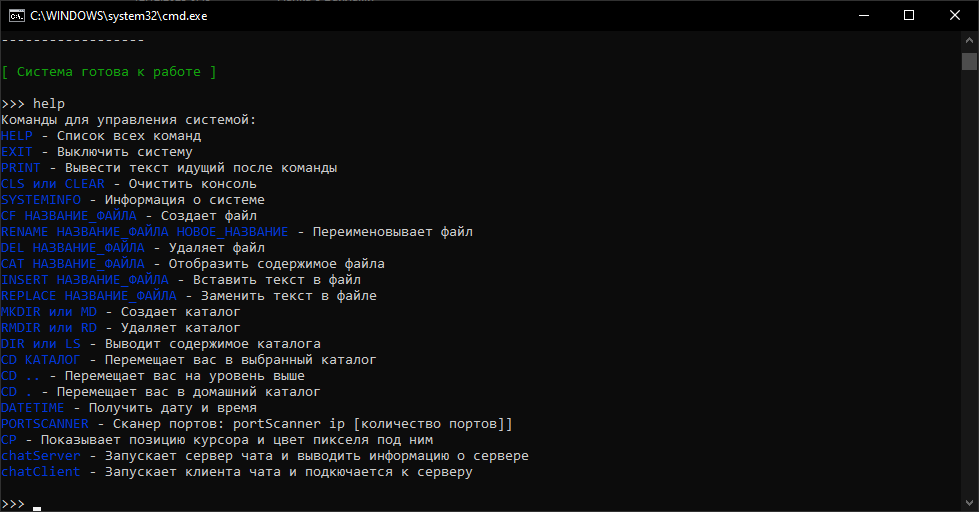
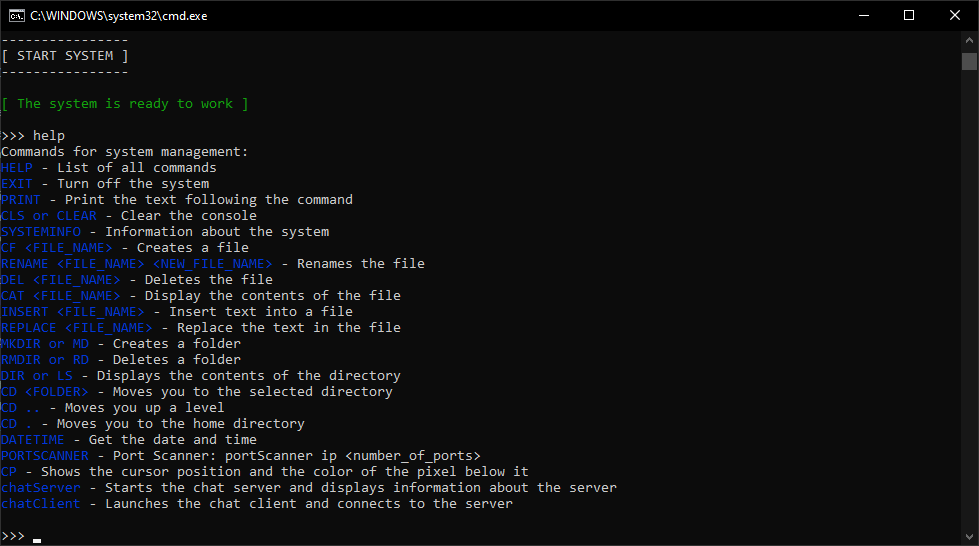
I translate on english and change image

diff --git a/textInterface.py b/textInterface.py
@@ -18,32 +18,32 @@ def scanner(command=""):
     if command == "":
         command = input("\n>>> ").lower()
     if command == "help":
-        print("Команды для управления системой:")
-        print(Fore.BLUE + "HELP" + Fore.WHITE + " - Список всех команд")
-        print(Fore.BLUE + "EXIT" + Fore.WHITE + " - Выключить систему")
-        print(Fore.BLUE + "PRINT" + Fore.WHITE + " - Вывести текст идущий после команды")
-        print(Fore.BLUE + "CLS или CLEAR" + Fore.WHITE + " - Очистить консоль")
-        print(Fore.BLUE + "SYSTEMINFO" + Fore.WHITE + " - Информация о системе")
-        print(Fore.BLUE + "CF НАЗВАНИЕ_ФАЙЛА" + Fore.WHITE + " - Создает файл")
-        print(Fore.BLUE + "RENAME НАЗВАНИЕ_ФАЙЛА НОВОЕ_НАЗВАНИЕ" + Fore.WHITE + " - Переименовывает файл")
-        print(Fore.BLUE + "DEL НАЗВАНИЕ_ФАЙЛА" + Fore.WHITE + " - Удаляет файл")
-        print(Fore.BLUE + "CAT НАЗВАНИЕ_ФАЙЛА" + Fore.WHITE + " - Отобразить содержимое файла")
-        print(Fore.BLUE + "INSERT НАЗВАНИЕ_ФАЙЛА" + Fore.WHITE + " - Вставить текст в файл")
-        print(Fore.BLUE + "REPLACE НАЗВАНИЕ_ФАЙЛА" + Fore.WHITE + " - Заменить текст в файле")
+        print("Commands for system management:")
+        print(Fore.BLUE + "HELP" + Fore.WHITE + " - List of all commands")
+        print(Fore.BLUE + "EXIT" + Fore.WHITE + " - Turn off the system")
+        print(Fore.BLUE + "PRINT" + Fore.WHITE + " - Print the text following the command")
+        print(Fore.BLUE + "CLS or CLEAR" + Fore.WHITE + " - Clear the console")
+        print(Fore.BLUE + "SYSTEMINFO" + Fore.WHITE + " - Information about the system")
+        print(Fore.BLUE + "CF <FILE_NAME>" + Fore.WHITE + " - Creates a file")
+        print(Fore.BLUE + "RENAME <FILE_NAME> <NEW_FILE_NAME>" + Fore.WHITE + " - Renames the file")
+        print(Fore.BLUE + "DEL <FILE_NAME>" + Fore.WHITE + " - Deletes the file")
+        print(Fore.BLUE + "CAT <FILE_NAME>" + Fore.WHITE + " - Display the contents of the file")
+        print(Fore.BLUE + "INSERT <FILE_NAME>" + Fore.WHITE + " - Insert text into a file")
+        print(Fore.BLUE + "REPLACE <FILE_NAME>" + Fore.WHITE + " - Replace the text in the file")
         # Замена символов в файле
-        print(Fore.BLUE + "MKDIR или MD" + Fore.WHITE + " - Создает каталог")
-        print(Fore.BLUE + "RMDIR или RD" + Fore.WHITE + " - Удаляет каталог")
-        print(Fore.BLUE + "DIR или LS" + Fore.WHITE + " - Выводит содержимое каталога")
-        print(Fore.BLUE + "CD КАТАЛОГ" + Fore.WHITE + " - Перемещает вас в выбранный каталог")
-        print(Fore.BLUE + "CD .." + Fore.WHITE + " - Перемещает вас на уровень выше")
-        print(Fore.BLUE + "CD ." + Fore.WHITE + " - Перемещает вас в домашний каталог")
-        print(Fore.BLUE + "DATETIME" + Fore.WHITE + " - Получить дату и время")
-        print(Fore.BLUE + "PORTSCANNER" + Fore.WHITE + " - Сканер портов: portScanner ip [количество портов]]")
-        print(Fore.BLUE + "CP" + Fore.WHITE + " - Показывает позицию курсора и цвет пикселя под ним")
-        print(Fore.BLUE + "chatServer" + Fore.WHITE + " - Запускает сервер чата и выводить информацию о сервере")
-        print(Fore.BLUE + "chatClient" + Fore.WHITE + " - Запускает клиента чата и подкючается к серверу")
+        print(Fore.BLUE + "MKDIR or MD" + Fore.WHITE + " - Creates a folder")
+        print(Fore.BLUE + "RMDIR or RD" + Fore.WHITE + " - Deletes a folder")
+        print(Fore.BLUE + "DIR or LS" + Fore.WHITE + " - Displays the contents of the directory")
+        print(Fore.BLUE + "CD <FOLDER>" + Fore.WHITE + " - Moves you to the selected directory")
+        print(Fore.BLUE + "CD .." + Fore.WHITE + " - Moves you up a level")
+        print(Fore.BLUE + "CD ." + Fore.WHITE + " - Moves you to the home directory")
+        print(Fore.BLUE + "DATETIME" + Fore.WHITE + " - Get the date and time")
+        print(Fore.BLUE + "PORTSCANNER" + Fore.WHITE + " - Port Scanner: portScanner ip <number_of_ports>")
+        print(Fore.BLUE + "CP" + Fore.WHITE + " - Shows the cursor position and the color of the pixel below it")
+        print(Fore.BLUE + "chatServer" + Fore.WHITE + " - Starts the chat server and displays information about the server")
+        print(Fore.BLUE + "chatClient" + Fore.WHITE + " - Launches the chat client and connects to the server")
     elif command == "exit":
-        print("[ Выход из системы ]")
+        print("[ Exit ]")
         exit()
     elif command.find("print") != -1:
         command = command.replace("print", "")
@@ -51,54 +51,54 @@ def scanner(command=""):
     elif ((command == "cls") or (command == "clear")):
         cls_clear(100)
     elif command == "systeminfo":
-        print(Fore.GREEN + "Система на языке программирования Python")
+        print(Fore.GREEN + "The system is based on the Python programming language")
     elif command.find("cf") != -1:
         name_file = command.replace("cf", "")
         name_file_strip = name_file.strip()
         f_ = __dir__ + name_file_strip
         try:
             with open(f_, "w") as f:
-                print(Fore.GREEN + "[ Файл " + name_file_strip + " создан ]")
+                print(Fore.GREEN + "[ File " + name_file_strip + " created ]")
         except Exception:
-            print(Fore.GREEN + "[ Error ] - Вы не указали название файла")
+            print(Fore.GREEN + "[ Error ] - You didn't specify the file name")
     elif command.find("rename") != -1:
         f_ = command.split(" ")
         try:
             f_old = __dir__ + f_[1]
             f_new = __dir__ + f_[2]
             os.rename(f_old, f_new)
-            print(Fore.GREEN + "[ Файл переименован с " + f_old.replace(__dir__, "") + " на " + f_new.replace(__dir__, "") + " ]")
+            print(Fore.GREEN + "[ The file was renamed from " + f_old.replace(__dir__, "") + " on " + f_new.replace(__dir__, "") + " ]")
         except Exception:
-            print(Fore.GREEN + "[ Error ] - Пока система не может переименовывать файлы имующие пробелы в название")
-            print(Fore.GREEN + "[ Error ] - Или вы не указали название файла")
+            print(Fore.GREEN + "[ Error ] - So far, the system cannot rename files with spaces in the name")
+            print(Fore.GREEN + "[ Error ] - Or you didn't specify the file name")
     elif command.find("del") != -1:
         f_ = command.split(" ")
         try:
             f_del = __dir__ + f_[1]
             os.remove(f_del)
-            print(Fore.GREEN + "[ Файл " + f_[1] + " удален ]")
+            print(Fore.GREEN + "[ File " + f_[1] + " deleted ]")
         except Exception:
-            print(Fore.GREEN + "[ Error ] - Пока система не может удалять файлы имующие пробелы в название")
-            print(Fore.GREEN + "[ Error ] - Или вы не указали название файла")
+            print(Fore.GREEN + "[ Error ] - So far, the system cannot delete files with spaces in the name")
+            print(Fore.GREEN + "[ Error ] - Or you didn't specify the file name")
     elif command.find("cat") != -1:
         f_ = command.split(" ")
         try:
             f_cat = __dir__ + f_[1]
-            print(Fore.GREEN + "[ Содержимое файла " + f_[1] + " ]")
+            print(Fore.GREEN + "[ The contents of the file " + f_[1] + " ]")
             with open(f_cat, "r") as f:
                 print(f.read())
         except Exception:
-            print(Fore.GREEN + "[ Error ] - Пока система не может читать файлы имующие пробелы в название")
-            print(Fore.GREEN + "[ Error ] - Или вы не указали название файла")
+            print(Fore.GREEN + "[ Error ] - So far, the system cannot delete files with spaces in the name")
+            print(Fore.GREEN + "[ Error ] - Or you didn't specify the file name")
     elif command.find("insert") != -1:
         f_ = command.split(" ")
         try:
             f_ins = __dir__ + f_[1]
             cls_clear(100)
-            print(Fore.GREEN + "[ Если в название файла был пробел, то будет создан новый файл с названием до пробела. Я знаю об этой проблеме, но пока её не решил ]")
-            print(Fore.GREEN + "[ Поставил лимит на 10 000 строк, поэтому при достижении предела сохраните файл и снова откройте, иначе возможно потеря данных! ]")
-            print(Fore.GREEN + "[ Чтобы сохранить и выйти введите \"[save]\" без кавычек на отдельной строке ]")
-            print(Fore.GREEN + "[ Чтобы выйти без сохранения введите \"[exit]\" без кавычек на отдельной строке ]")
+            print(Fore.GREEN + "[ If there was a space in the file name, a new file will be created with the name before the space. I am aware of this problem, but I have not solved it yet. ]")
+            print(Fore.GREEN + "[ I set a limit of 10,000 lines, so when the limit is reached, save the file and open it again, otherwise data loss is possible! ]")
+            print(Fore.GREEN + "[ To save and exit, type \"[save]\" without quotes on a separate line ]")
+            print(Fore.GREEN + "[ To exit without saving, type \"[exit]\" without quotes on a separate line ]")
             cls_clear(3)
             with open(f_ins, "a") as f:
                 text = ""
@@ -107,24 +107,24 @@ def scanner(command=""):
                     if temp_.lower() == "[save]":
                         d, t = dateAndTime()
                         f.write(f"\n\n\nДата: {d} \nВремя: {t} \n{text}")
-                        print(Fore.GREEN + "[ Файл обновлен ]")
+                        print(Fore.GREEN + "[ The file has been updated ]")
                         break
                     elif temp_.lower() == "[exit]":
-                        print(Fore.RED + "[ Изменения не сохранены ]")
+                        print(Fore.RED + "[ The changes  not saved ]")
                         break
                     else:
                         text += temp_ + "\n"
         except Exception:
-            print(Fore.GREEN + "[ Error ] - Вы не указали название файла")
+            print(Fore.GREEN + "[ Error ] - You did not specify the file name")
     elif command.find("replace") != -1:
         f_ = command.split(" ")
         try:
             f_ins = __dir__ + f_[1]
             cls_clear(100)
-            print(Fore.GREEN + "[ Если в название файла был пробел, то будет создан новый файл с названием до пробела. Я знаю об этой проблеме, но пока её не решил! ]")
-            print(Fore.GREEN + "[ Поставил пока лимит на 10 000 строк, поэтому при достижении предела сохраните файл и снова откройте, иначе возможно потеря данных! ]")
-            print(Fore.GREEN + "[ Чтобы сохранить и выйти введите \"[save]\" без кавычек на отдельной строке ]")
-            print(Fore.GREEN + "[ Чтобы выйти без сохранения введите \"[exit]\" без кавычек на отдельной строке ]")
+            print(Fore.GREEN + "[ If there was a space in the file name, a new file will be created with the name before the space. I am aware of this problem, but I have not solved it yet. ]")
+            print(Fore.GREEN + "[ I set a limit of 10,000 lines, so when the limit is reached, save the file and open it again, otherwise data loss is possible! ]")
+            print(Fore.GREEN + "[ To save and exit, type \"[save]\" without quotes on a separate line ]")
+            print(Fore.GREEN + "[ To exit without saving, type \"[exit]\" without quotes on a separate line ]")
             cls_clear(3)
             text = ""
             for i in range(10000):
@@ -132,49 +132,49 @@ def scanner(command=""):
                     if temp_.lower() == "[save]":
                         d, t = dateAndTime()
                         with open(f_ins, "w") as f:
-                            f.write(f"Дата: {d} \nВремя: {t} \n{text}")
-                        print(Fore.GREEN + "[ Файл обновлен ]")
+                            f.write(f"Date: {d} \nВремя: {t} \n{text}")
+                        print(Fore.GREEN + "[ The file has been updated ]")
                         break
                     elif temp_.lower() == "[exit]":
-                        print(Fore.RED + "[ Изменения не сохранены ]")
+                        print(Fore.RED + "[ The changes not saved ]")
                         break
                     else:
                         text += temp_ + "\n"
         except Exception:
-            print(Fore.GREEN + "[ Error ] - Вы не указали название файла")
+            print(Fore.GREEN + "[ Error ] - You did not specify the file name")
     elif ((command.find("rmdir") != -1) or (command.find("rd") != -1)):
         d = command.split(" ")
         try:
             d_ = __dir__ + d[1]
             os.rmdir(d_)
-            print(Fore.GREEN + "[ Каталог удален ]")
+            print(Fore.GREEN + "[ The directory has been deleted ]")
         except Exception:
-            print(Fore.GREEN + "[ Error ] - Пока система не может читать файлы имующие пробелы в название")
-            print(Fore.GREEN + "[ Error ] - Или вы не указали название файла")
+            print(Fore.GREEN + "[ Error ] - While the system cannot read files with spaces in the name")
+            print(Fore.GREEN + "[ Error ] - Or you did not specify the file name")
     elif ((command.find("mkdir") != -1) or (command.find("md") != -1)):
         d = command.split(" ")
         try:
             d_ = __dir__ + d[1]
             os.mkdir(d_)
-            print(Fore.GREEN + "[ Каталог создан ]")
+            print(Fore.GREEN + "[ The catalog has been created ]")
         except Exception:
-            print(Fore.GREEN + "[ Error ] - Пока система не может читать файлы имующие пробелы в название")
-            print(Fore.GREEN + "[ Error ] - Или вы не указали название файла")
+            print(Fore.GREEN + "[ Error ] - While the system cannot read files with spaces in the name")
+            print(Fore.GREEN + "[ Error ] - Or you did not specify the file name")
     elif ((command.find("ls") != -1) or (command.find("dir") != -1)):
         try:
             rez = sorted(os.listdir(__dir__))
             for n, item in enumerate(rez):
                 #print(n+1, item)
                 if item.find(".") != -1:
-                    print("Файл:    ", item)
+                    print("File:    ", item)
                 else:
-                    print("Каталог: ", Fore.GREEN + item)
+                    print("Folder: ", Fore.GREEN + item)
         except Exception:
-            print(Fore.GREEN + "[ Error ] - Такой деректории не существует, поднимитесь на уровень выше")
+            print(Fore.GREEN + "[ Error ] - There is no such directory, go up a level")
     elif command == "cd ..":
         __dir__ = __dir__.replace(__cd__, "")
         length = len(__cd__)
-        print(Fore.GREEN + "[ Вы вышли из каталога " + __cd__[:length-1] + " и перешли на уровень выше ]")
+        print(Fore.GREEN + "[ You have logged out of the catalog " + __cd__[:length-1] + "and moved to a higher level]")
         __cd__ = ""
     elif command == "cd .":
         __dir__ = "User\\"
@@ -183,20 +183,20 @@ def scanner(command=""):
             cd_ = command.split(" ")
             __cd__ += cd_[1] + "\\"
             __dir__ += __cd__
-            print(Fore.GREEN + "[ Вы перешли в каталог " + cd_[1] + " ]")
+            print(Fore.GREEN + "[ You have moved to the catalog " + cd_[1] + " ]")
         except Exception:
-            print(Fore.RED + "Вы не указали каталог!")
+            print(Fore.RED + "You didn't specify the catalog!")
     elif command == "datetime":
         d, t = dateAndTime()
-        print(Fore.CYAN + "Дата: " + d)
-        print(Fore.CYAN + "Время: " + t)
+        print(Fore.CYAN + "Date: " + d)
+        print(Fore.CYAN + "Time: " + t)
     elif command.find("portscanner") != -1:
         try:
             start = datetime.now()
             ip = command.split(" ")
             if len(ip) == 3:
                 if (int(ip[2]) > 65535) or (int(ip[2]) <= 0):
-                    print(Fore.RED + "Порты указаны вне диапазона")
+                    print(Fore.RED + "Ports are specified out of range")
                 else:
                     for i in range(int(ip[2])):
                         potoc = Thread(target=portScanner, args=(ip[1], i))
@@ -210,13 +210,13 @@ def scanner(command=""):
             ends = datetime.now()
             print(Fore.GREEN + "Time : {}".format(ends-start))
         except Exception:
-            print(Fore.RED + "Вы не ввели ip адрес!")
+            print(Fore.RED + "You have not entered an ip address!")
     elif command == "cp":
         print("Press CTRL-C to quit")
         try:
             while True:
                 cursorPosition()
-        # Когда пользователь нажмет CTRL-C, возникнет исключение KeyboardInterrupt
+        # When the user presses CTRL-C, an exception will occur KeyboardInterrupt
         except KeyboardInterrupt:
             print("\nExiting the program")
     elif command == "chatserver":
@@ -226,7 +226,7 @@ def scanner(command=""):
             IP = command.split(" ")
             chatClient(IP[1])
         except Exception:
-            print(Fore.RED + "Вы не ввели ip адрес!")
+            print(Fore.RED + "You have not entered an ip address!")
     elif command == "gui":
         try:
             pass
@@ -234,7 +234,7 @@ def scanner(command=""):
         except Exception:
             pass
     else:
-        print(Fore.BLUE + "[ Команда не распознана ]")
+        print(Fore.BLUE + "[ The command was not recognized ]")
 
 def cls_clear(num):
     for i in range(num):

diff --git a/chat.py b/chat.py
@@ -8,10 +8,10 @@ def chatClient(IP):
     client.connect((IP, PORT))
     flag = True
     while flag:
-        client.send(input("Я: ").encode("utf-8"))
+        client.send(input("I: ").encode("utf-8"))
         msg = client.recv(1024).decode("utf-8")
         if msg == "quit":
-            print(Fore.GREEN + "[ Выход из чата и окончание работы программы ]")
+            print(Fore.GREEN + "[ Exiting the chat and ending the program ]")
             flag = False
         else:
             print(Fore.CYAN + "_: " + msg)
@@ -20,7 +20,7 @@ def chatClient(IP):
 def chatServer():
     server = socket.socket(socket.AF_INET, socket.SOCK_STREAM)
     IP = socket.gethostbyname(socket.gethostname())
-    print("Адрес сервера: " + IP)   
+    print("Server address: " + IP)   
     server.bind((IP, PORT))
     server.listen()
     client, address = server.accept()
@@ -28,7 +28,7 @@ def chatServer():
     while flag:
         msg = client.recv(1024).decode("utf-8")
         if msg == "quit":
-            print(Fore.GREEN + "[ Завершение работы сервера и окончание работы программы ]")
+            print(Fore.GREEN + "[ Shutting down the server and ending the program ]")
             flag = False
         else:
             print(Fore.CYAN + "_: " + msg)

diff --git a/utils.py b/utils.py
@@ -6,9 +6,9 @@ from color import rgb_to_hex
 
 just_fix_windows_console()
 
-"""Функция для работы с курсором"""
+"""Function for working with the cursor"""
 def cursorPosition():
-    """Процедура вычисления позиции курсора"""
+    """The procedure for calculating the cursor position"""
     x, y = pyautogui.position() # Получение текущих координат
     positionStr = 'X:' + str(x).rjust(5) + ' Y:' + str(y).rjust(5) # Метод rjust(4) сдвигает строку на четыре позиции вправо
     pixelColor = pyautogui.screenshot().getpixel((x, y)) # Получаем цвет пикселя по координатам курсора

diff --git a/system.py b/system.py
@@ -5,7 +5,7 @@ init(autoreset = True)
 
 def startSystem():
     cls_clear(100)
-    print('------------------')
-    print('[ Запуск системы ]')
-    print('------------------')
-    print(Fore.GREEN + '\n[ Система готова к работе ]')
+    print('----------------')
+    print('[ START SYSTEM ]')
+    print('----------------')
+    print(Fore.GREEN + '\n[ The system is ready to work ]')

diff --git a/guiInterface.py b/guiInterface.py
@@ -28,7 +28,7 @@ def Gui():
 
     commandBtn = tk.Button(commandFrame,
                     width=20,
-                    text="Выполнить",
+                    text="To perform",
                     font=font.Font(family="Arial", size=16),
                     bg="blue",
                     fg="white")

diff --git a/main.py b/main.py
@@ -8,7 +8,7 @@ def App():
             scanner()
     except KeyboardInterrupt:
         print("Ctrl+C")
-        print("\n[ Выход из системы ]")
+        print("\n[ Exit ]")
 
 if __name__ == "__main__":
     App()
